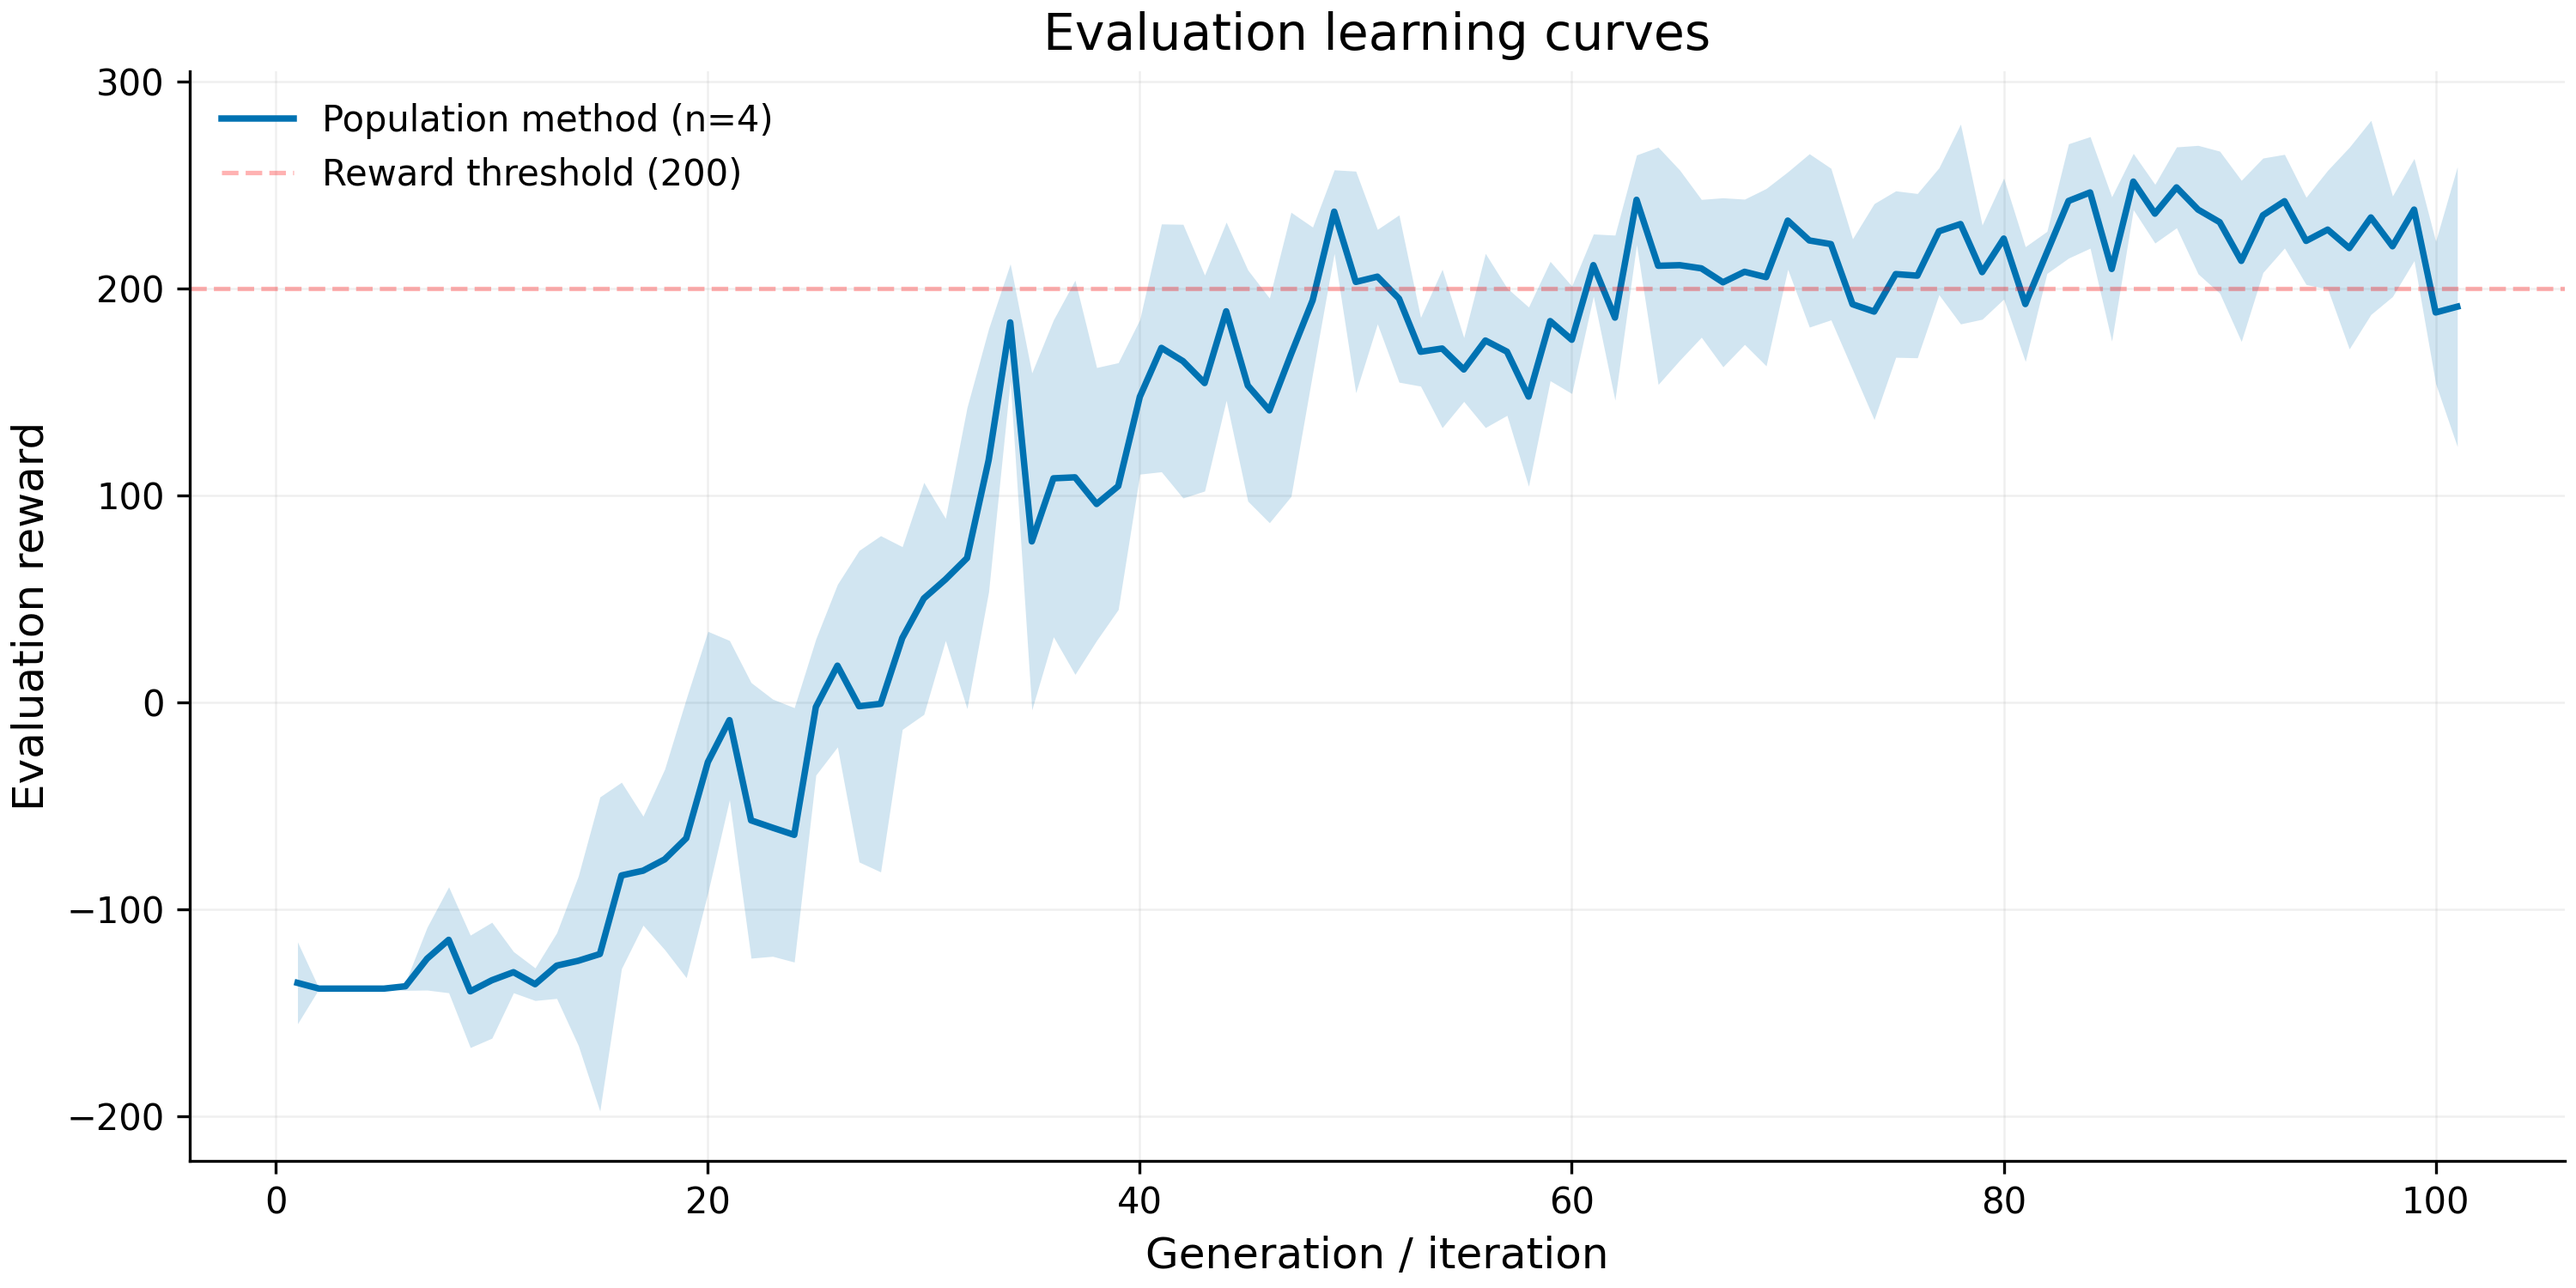
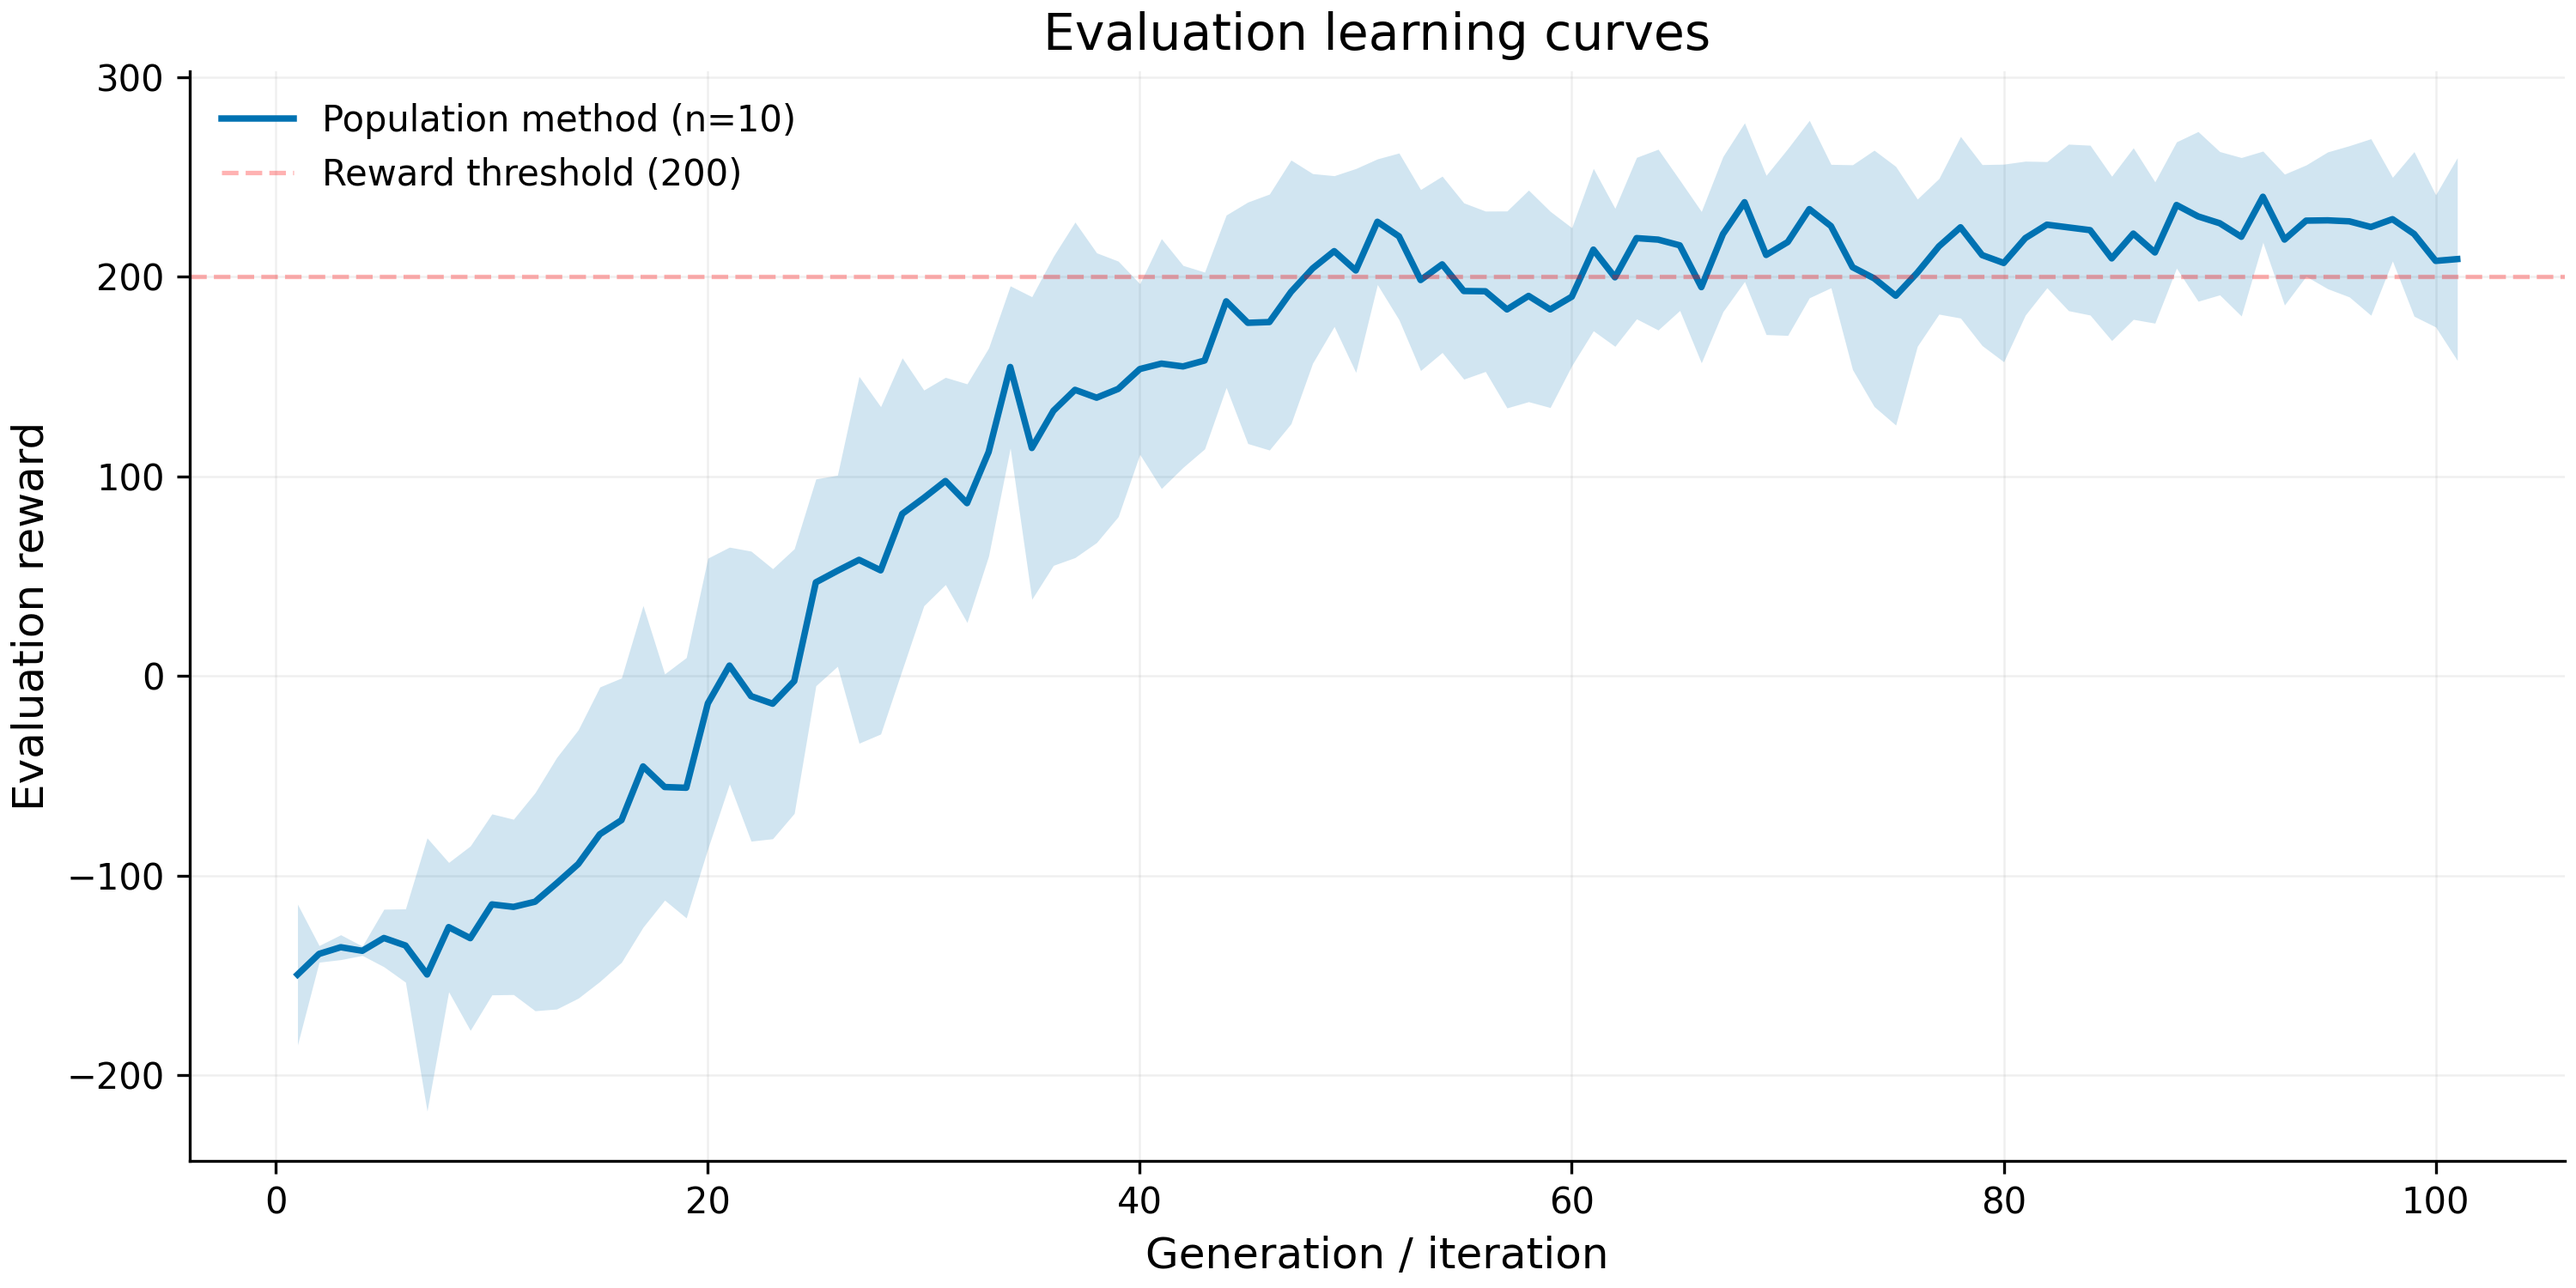
zeroth_sgd

diff --git a/zeroth_order_sgd.py b/zeroth_order_sgd.py
@@ -80,7 +80,7 @@ print(f"[TRAINING ZEROTH-ORDER OPTIMIZATION METHOD ON {cfg.env_name.upper()}]")
 for it in range(1, cfg.max_iters + 1):
     key, eps_key, seed_key = jax.random.split(key, 3)
     eps = jax.random.normal(eps_key, shape=(cfg.pop_size, PARAM_DIM))
-    random_state = jax.random.randint(seed_key, shape=(), minval=0, maxval=1e7).item()
+    random_state = jax.random.randint(seed_key, shape=(), minval=0, maxval=2**31 - 1).item()
 
     rewards_pos = []
     rewards_neg = []
@@ -90,13 +90,18 @@ for it in range(1, cfg.max_iters + 1):
 
     rewards_pos = jnp.asarray(rewards_pos)
     rewards_neg = jnp.asarray(rewards_neg)
-    # compute gradient eq.12 Salimas et al., 2017
-    # rank‑normalised advantages
-    A_pos = 2 * centered_ranks(rewards_pos)
-    A_neg = 2 * centered_ranks(rewards_neg)
-    diff = A_pos - A_neg
-    gradient = (diff.reshape(-1, 1) * eps).mean(axis=0) / sigma
 
+    # Wierstra et al. (2014) fitness shaping
+    paired_rewards = jnp.stack([rewards_pos, rewards_neg], axis=1)
+    ranked_rewards = centered_ranks(paired_rewards)
+    rank_difference = ranked_rewards[:, 0] - ranked_rewards[:, 1]
+    # A_pos = 2 * centered_ranks(rewards_pos)
+    # A_neg = 2 * centered_ranks(rewards_neg)
+    # diff = A_pos - A_neg
+
+    # gradient = (diff.reshape(-1, 1) * eps).mean(axis=0) / sigma
+
+    gradient = (rank_difference[:, None] * eps).sum(axis=0) / paired_rewards.size
     theta += cfg.lr * gradient  # shift θ in the direction of the gradient (SGD)
 
     # parent policy performance
@@ -106,10 +111,10 @@ for it in range(1, cfg.max_iters + 1):
     if it % cfg.eval_every == 0 or it == 1:
         print(f"Iter {it:4d} | σ={sigma:.3f} |  Mean reward {mean_r:.1f} ± {onp.std(rewards):.1f}")
 
-    # 1/5th success rule for σ adaptation
-    successes = (rewards_pos > rewards_neg).mean()
-    sigma *= jnp.exp(cfg.beta * (successes - cfg.success_ratio))
-    sigma *= cfg.sigma_decay  # slow geometric decay (backup)
+    # # 1/5th success rule for σ adaptation
+    # successes = (rewards_pos > rewards_neg).mean()
+    # sigma *= jnp.exp(cfg.beta * (successes - cfg.success_ratio))
+    # sigma *= cfg.sigma_decay  # slow geometric decay (backup)
 
 print("\n[TRAINING FINISHED]")
 time_taken = format_elapsed_time(time.time() - start_training)

diff --git a/zeroth_order_adam_parallel.py b/zeroth_order_adam_parallel.py
@@ -97,7 +97,7 @@ if __name__ == '__main__':
     for it in range(1, cfg.max_iters + 1):
         key, eps_key, seed_key = jax.random.split(key, 3)
         eps = jax.random.normal(eps_key, shape=(cfg.pop_size, PARAM_DIM))
-        random_state = jax.random.randint(seed_key, shape=(), minval=0, maxval=1e7).item()
+        random_state = jax.random.randint(seed_key, shape=(), minval=0, maxval=2**31 - 1).item()
 
         # run parallel processes for perturbations
         ctx = mp.get_context("spawn")

diff --git a/utils.py b/utils.py
@@ -16,7 +16,7 @@ class Config:
     pop_size: int = 128  
 
     sigma0: float = 0.5  # initial exploration std
-    max_iters: int = 150
+    max_iters: int = 101
     eval_every: int = 5  # perform an evaluation on the parent policy
     episode_average: int = 5  # deterministic eval episodes
 
